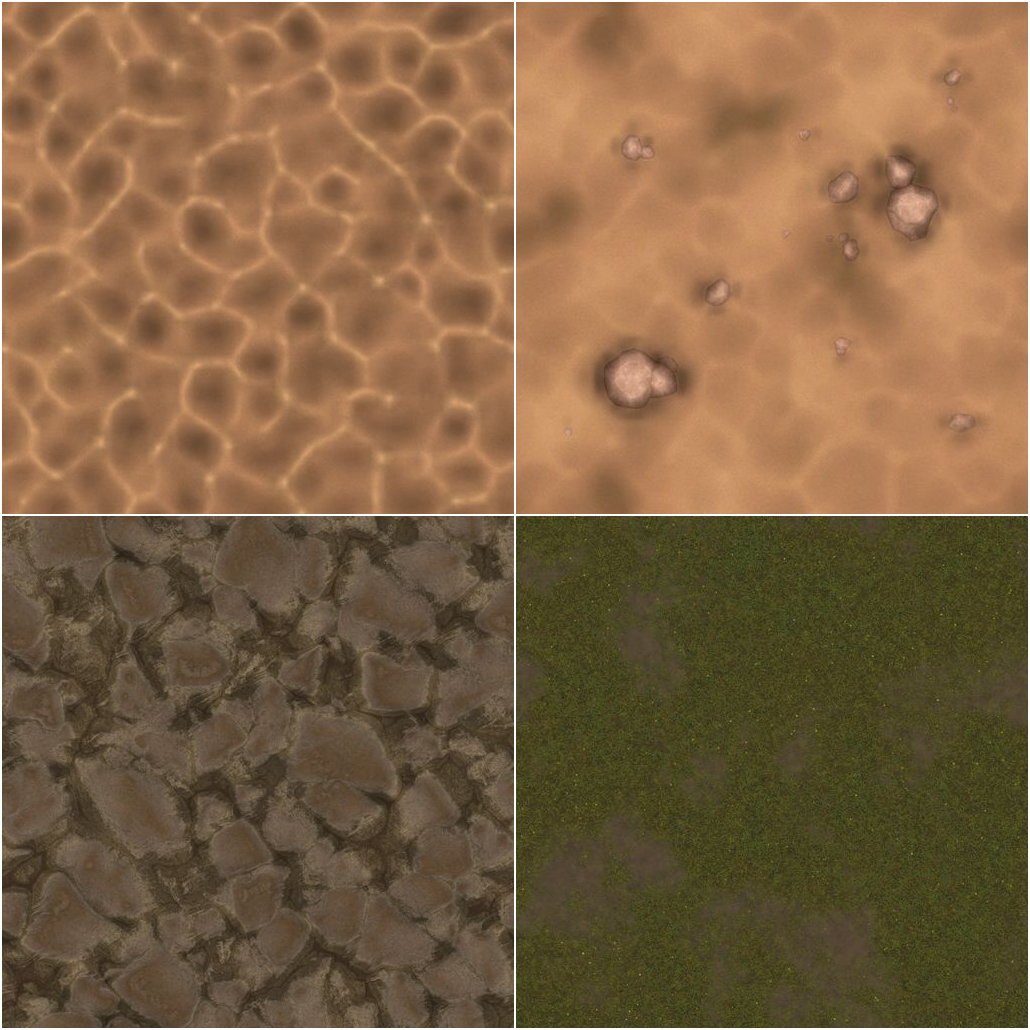
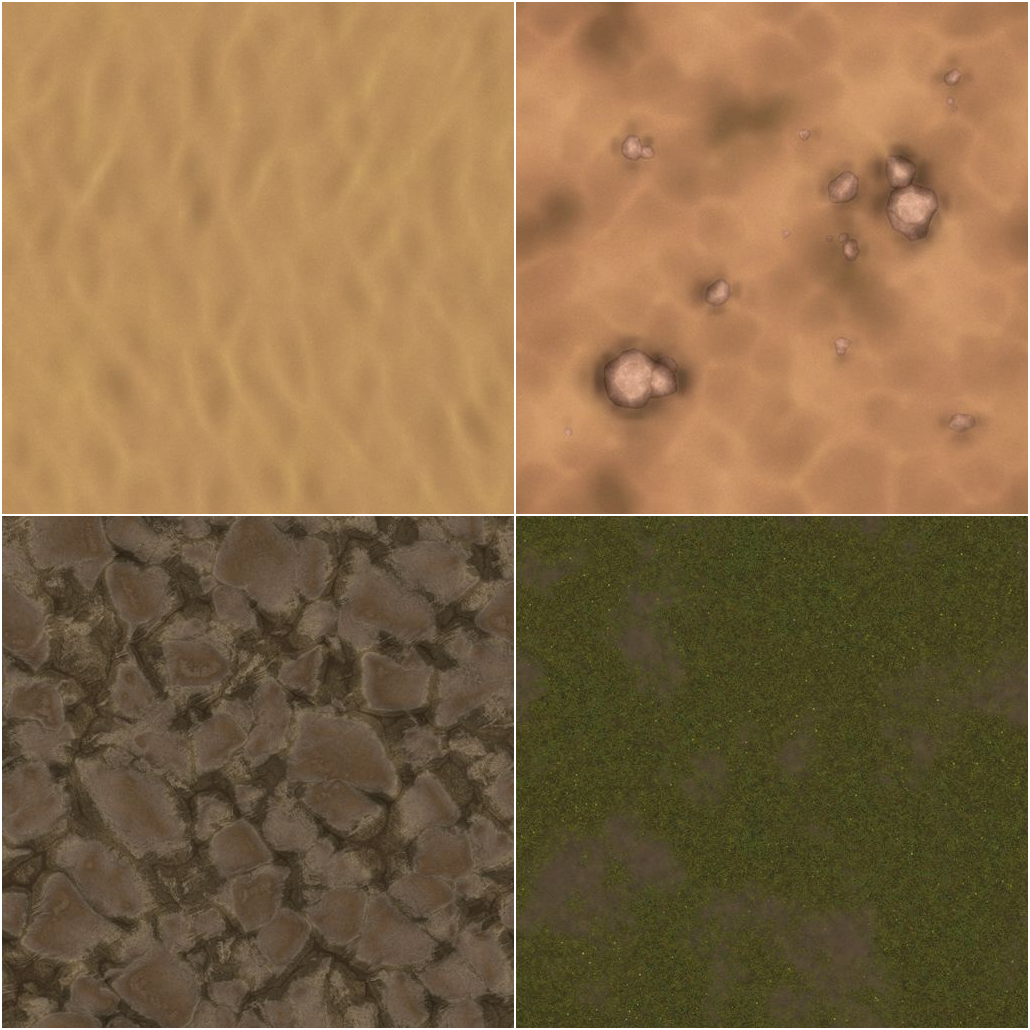
better sand texture

Changed region(s): [[0.0, 0.0, 0.4971, 0.4971]]

diff --git a/core/src/org/group16/TestingGDX.java b/core/src/org/group16/TestingGDX.java
@@ -44,7 +44,7 @@ public class TestingGDX extends Game {
         camera.position.set(3f, 3f, 3f);
         camera.lookAt(0f, 0f, 0f);
 
-        camera.near = 2f;
+        camera.near = 1f;
         camera.far = 50f;
         camera.update();
 
@@ -65,13 +65,10 @@ public class TestingGDX extends Game {
 
         for (int x = 0; x <= 5; x++) {
             for (int y = 0; y <= 5; y++) {
-//                Renderer cell = new Renderer(ground, false, 1, Vector3.Y, Vector3.X);
-//                cell.setLocalPosition(x + .5f, 0, y + .5f);
-//                renderers.add(cell);
-                CellRenderer cellRenderer = new CellRenderer(CellGraphics.ROCKY_SAND, x + .5f, y + .5f);
+                CellRenderer cellRenderer = new CellRenderer(CellGraphics.SAND, x + .5f, y + .5f);
                 renderers.add(cellRenderer);
 
-                DetailRenderer detailRenderer = new DetailRenderer(DetailGraphics.TREE_PINE1, x + .5f, y + .5f);
+                DetailRenderer detailRenderer = new DetailRenderer(DetailGraphics.CACTII, x + .5f, y + .5f);
                 renderers.add(detailRenderer);
 
 
@@ -90,7 +87,7 @@ public class TestingGDX extends Game {
 
     @Override
     public void render() {
-        gl.glClearColor(1, 0, 0, 1);
+        gl.glClearColor(.3f, .7f, 1, 1);
         gl.glClear(GL20.GL_COLOR_BUFFER_BIT | GL20.GL_DEPTH_BUFFER_BIT);
 
         long milis = TimeUtils.timeSinceMillis(lastFrame);
